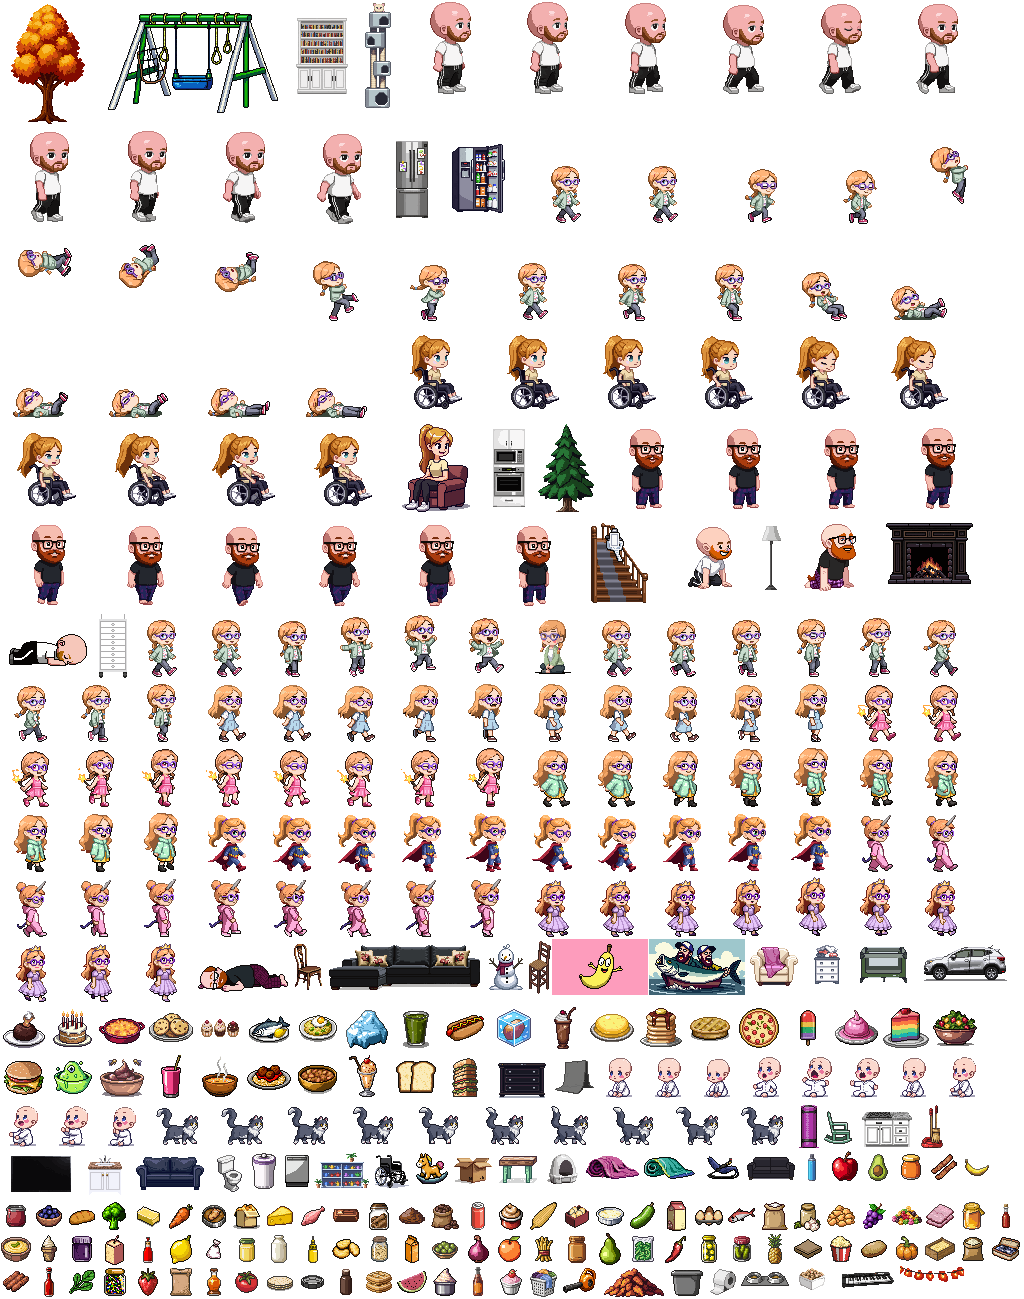
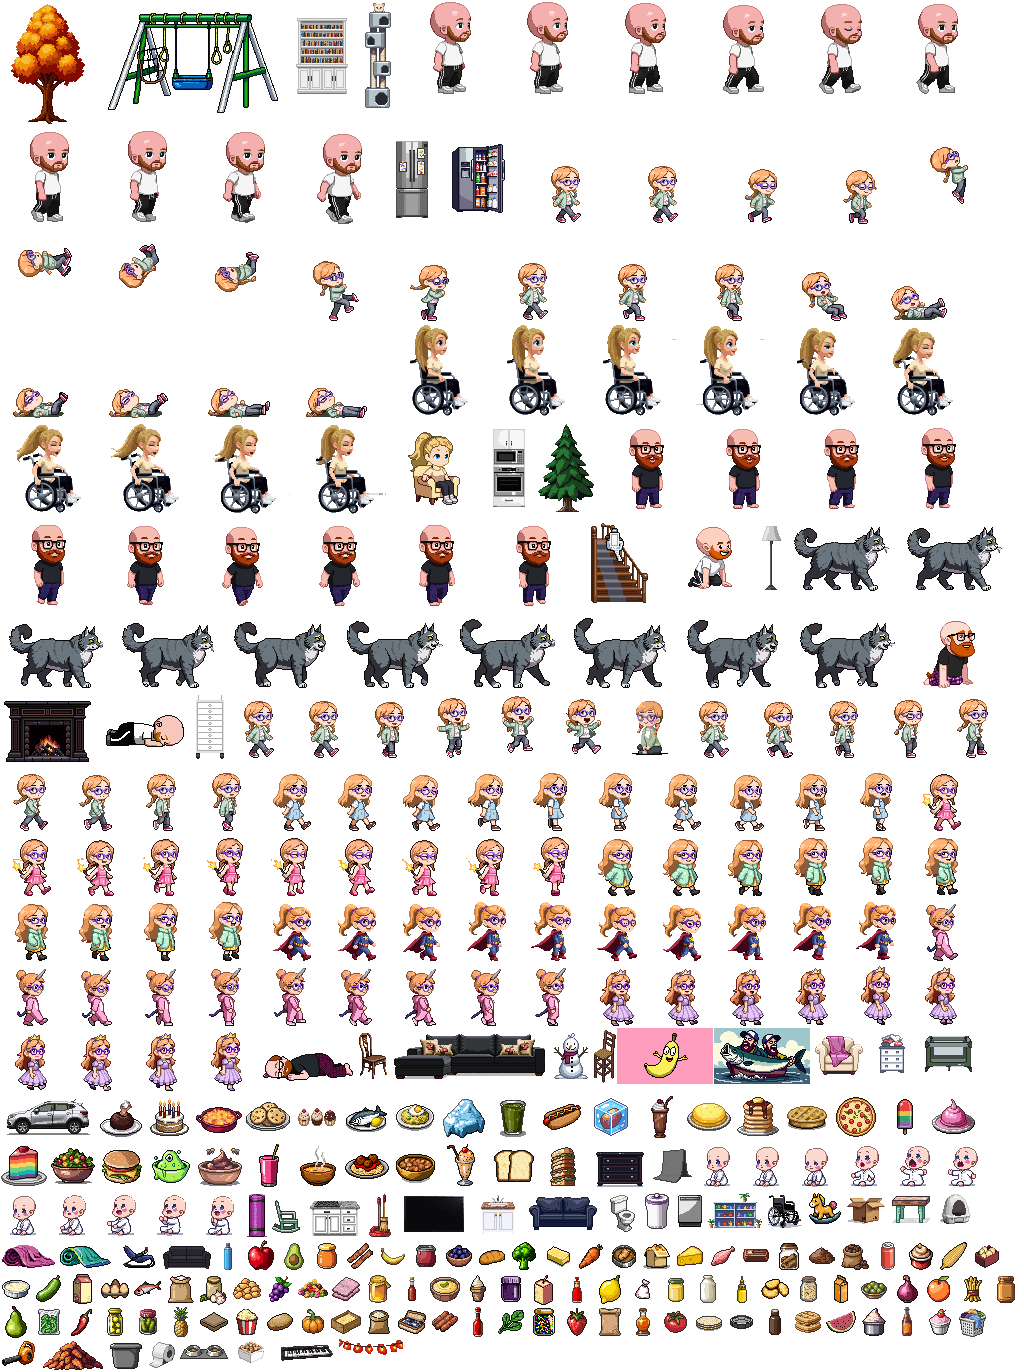
Chef Marina: larger Maine Coon Niko with new portrait/expressions; Julia sprite with longer face and dark blonde hair
Claude-Session: https://claude.ai/code/session_01VMaYe4JYu1MQheqKkDSWH1

diff --git a/chef-marina/game.js b/chef-marina/game.js
@@ -103,7 +103,7 @@ function drawEnt(e) {
       if (e.moving) k = frameKey('niko_walk', t, e.curSpeed > 60 ? 18 : 10);
       if (e.state === 'litter') { sy = 0.9 + Math.sin(t * 6) * 0.03; y = 152; }
       if (e.state === 'eat') { rot = 0.15 * (e.dir > 0 ? 1 : -1); }
-      drawSprite(k, e.x, y, { flip: e.dir < 0, scale: 0.8, rot, sy });
+      drawSprite(k, e.x, y, { flip: e.dir < 0, scale: 0.72, rot, sy });
       return; }
   }
 }
@@ -135,7 +135,7 @@ function drawHolding(e, y) {
   const x = e.x + (e.dir < 0 ? -10 : 10);
   if (h.type === 'dish') drawSprite('dish_' + h.dish.art, x, y + 30, { scale: 0.55, opt: h.dish.tint ? { tint: h.dish.tint } : null });
   else if (h.type === 'tp') drawSprite('tp_roll', x, y + 30, { scale: 0.5 });
-  else if (h.type === 'niko') { drawSprite('niko', e.x + (e.dir < 0 ? -4 : 4), y + 44 + Math.sin(E.t * 30) * (h.struggle ? 2 : 0), { flip: e.dir < 0, scale: 0.6, rot: h.struggle ? Math.sin(E.t * 25) * 0.3 : 0.4 }); }
+  else if (h.type === 'niko') { drawSprite('niko', e.x + (e.dir < 0 ? -4 : 4), y + 44 + Math.sin(E.t * 30) * (h.struggle ? 2 : 0), { flip: e.dir < 0, scale: 0.45, rot: h.struggle ? Math.sin(E.t * 25) * 0.3 : 0.4 }); }
   else if (h.type === 'blower') { drawSprite('leaf_blower', x + 4, y + 50, { flip: e.dir < 0, scale: 0.7 }); }
   else emoji(h.ico || '❓', x, y + 20, 12);
 }
@@ -342,7 +342,7 @@ function hitTest(wx, wy) {
     if (e.state === 'toilet' || (e === niko && e.state === 'held')) continue;
     let key = e.id, sc = 1, ey = e.y;
     if (e === miles) { sc = 0.8; ey = e.spot === 'crib' ? BACK - 10 : 156; }
-    if (e === niko) { sc = 0.8; if (e.state === 'sleep' && e.perchY) ey = e.perchY; }
+    if (e === niko) { sc = 0.72; if (e.state === 'sleep' && e.perchY) ey = e.perchY; }
     if (e === mommy && e.state === 'sit') key = 'mommy_sit';
     if ((e === daddy || e === rory) && e.state === 'lie') key = e.id + '_lie';
     if ((e === daddy || e === rory) && e.state === 'horse') key = e.id + '_horse';
